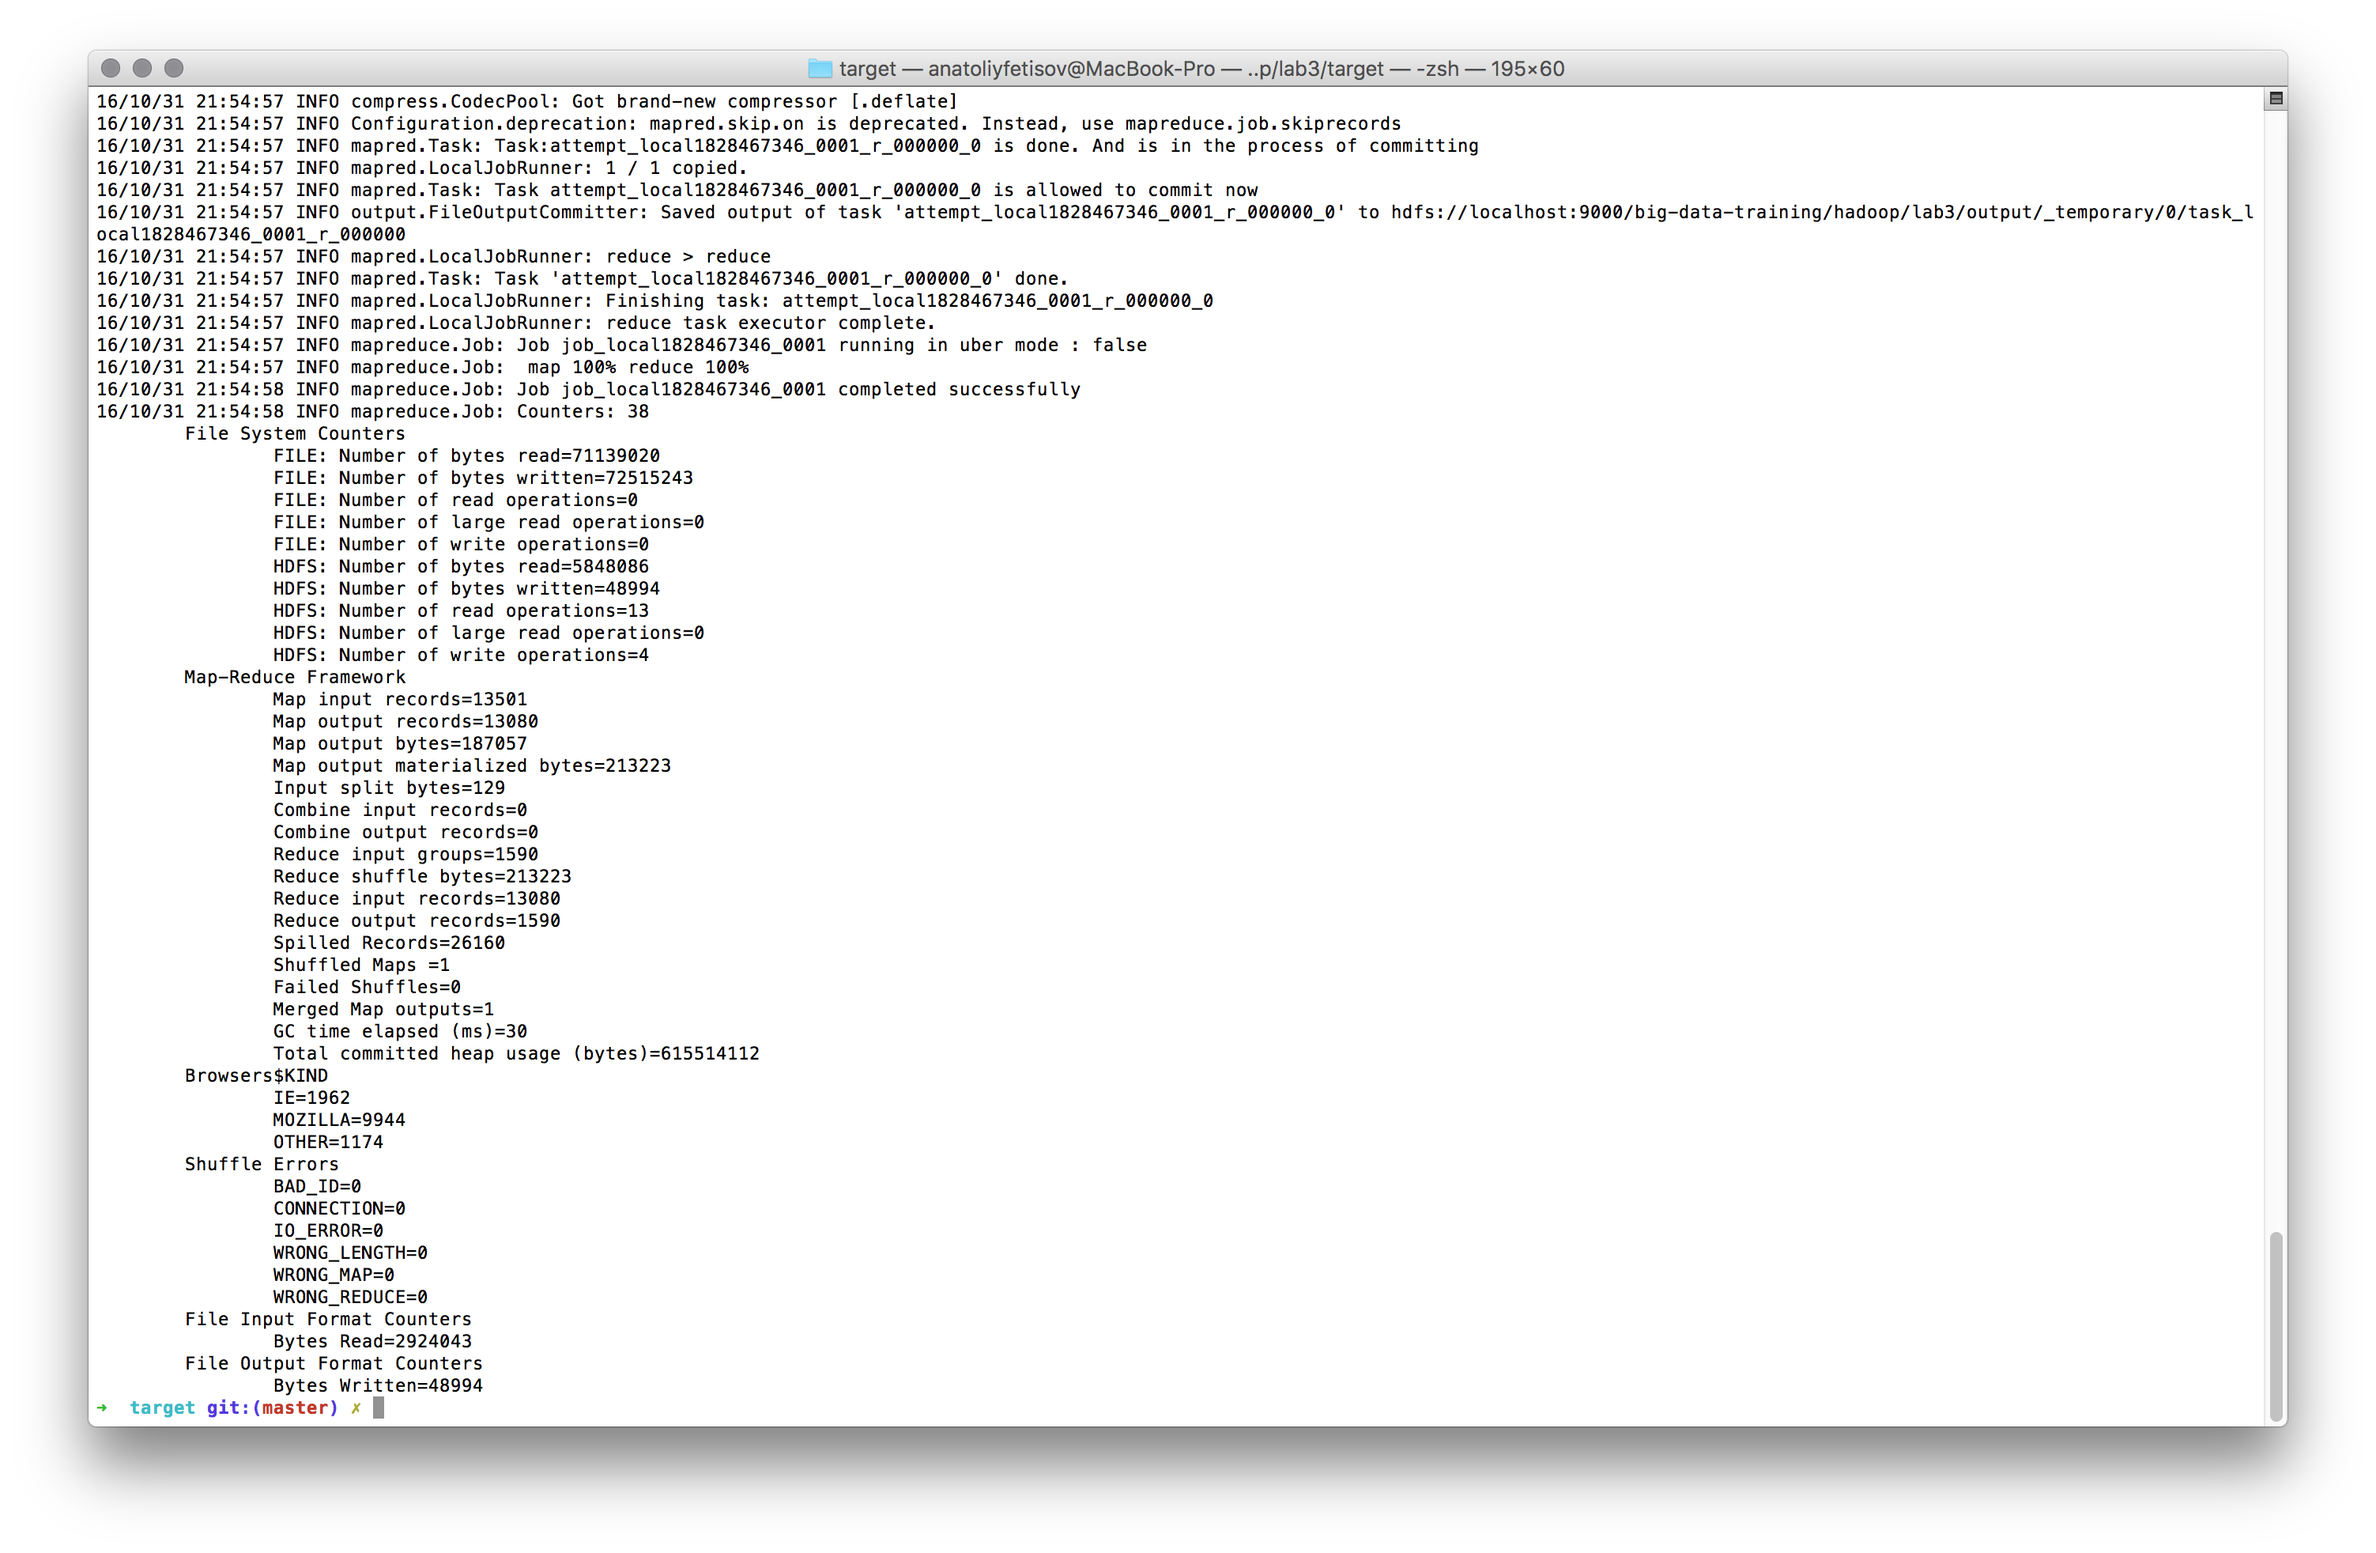
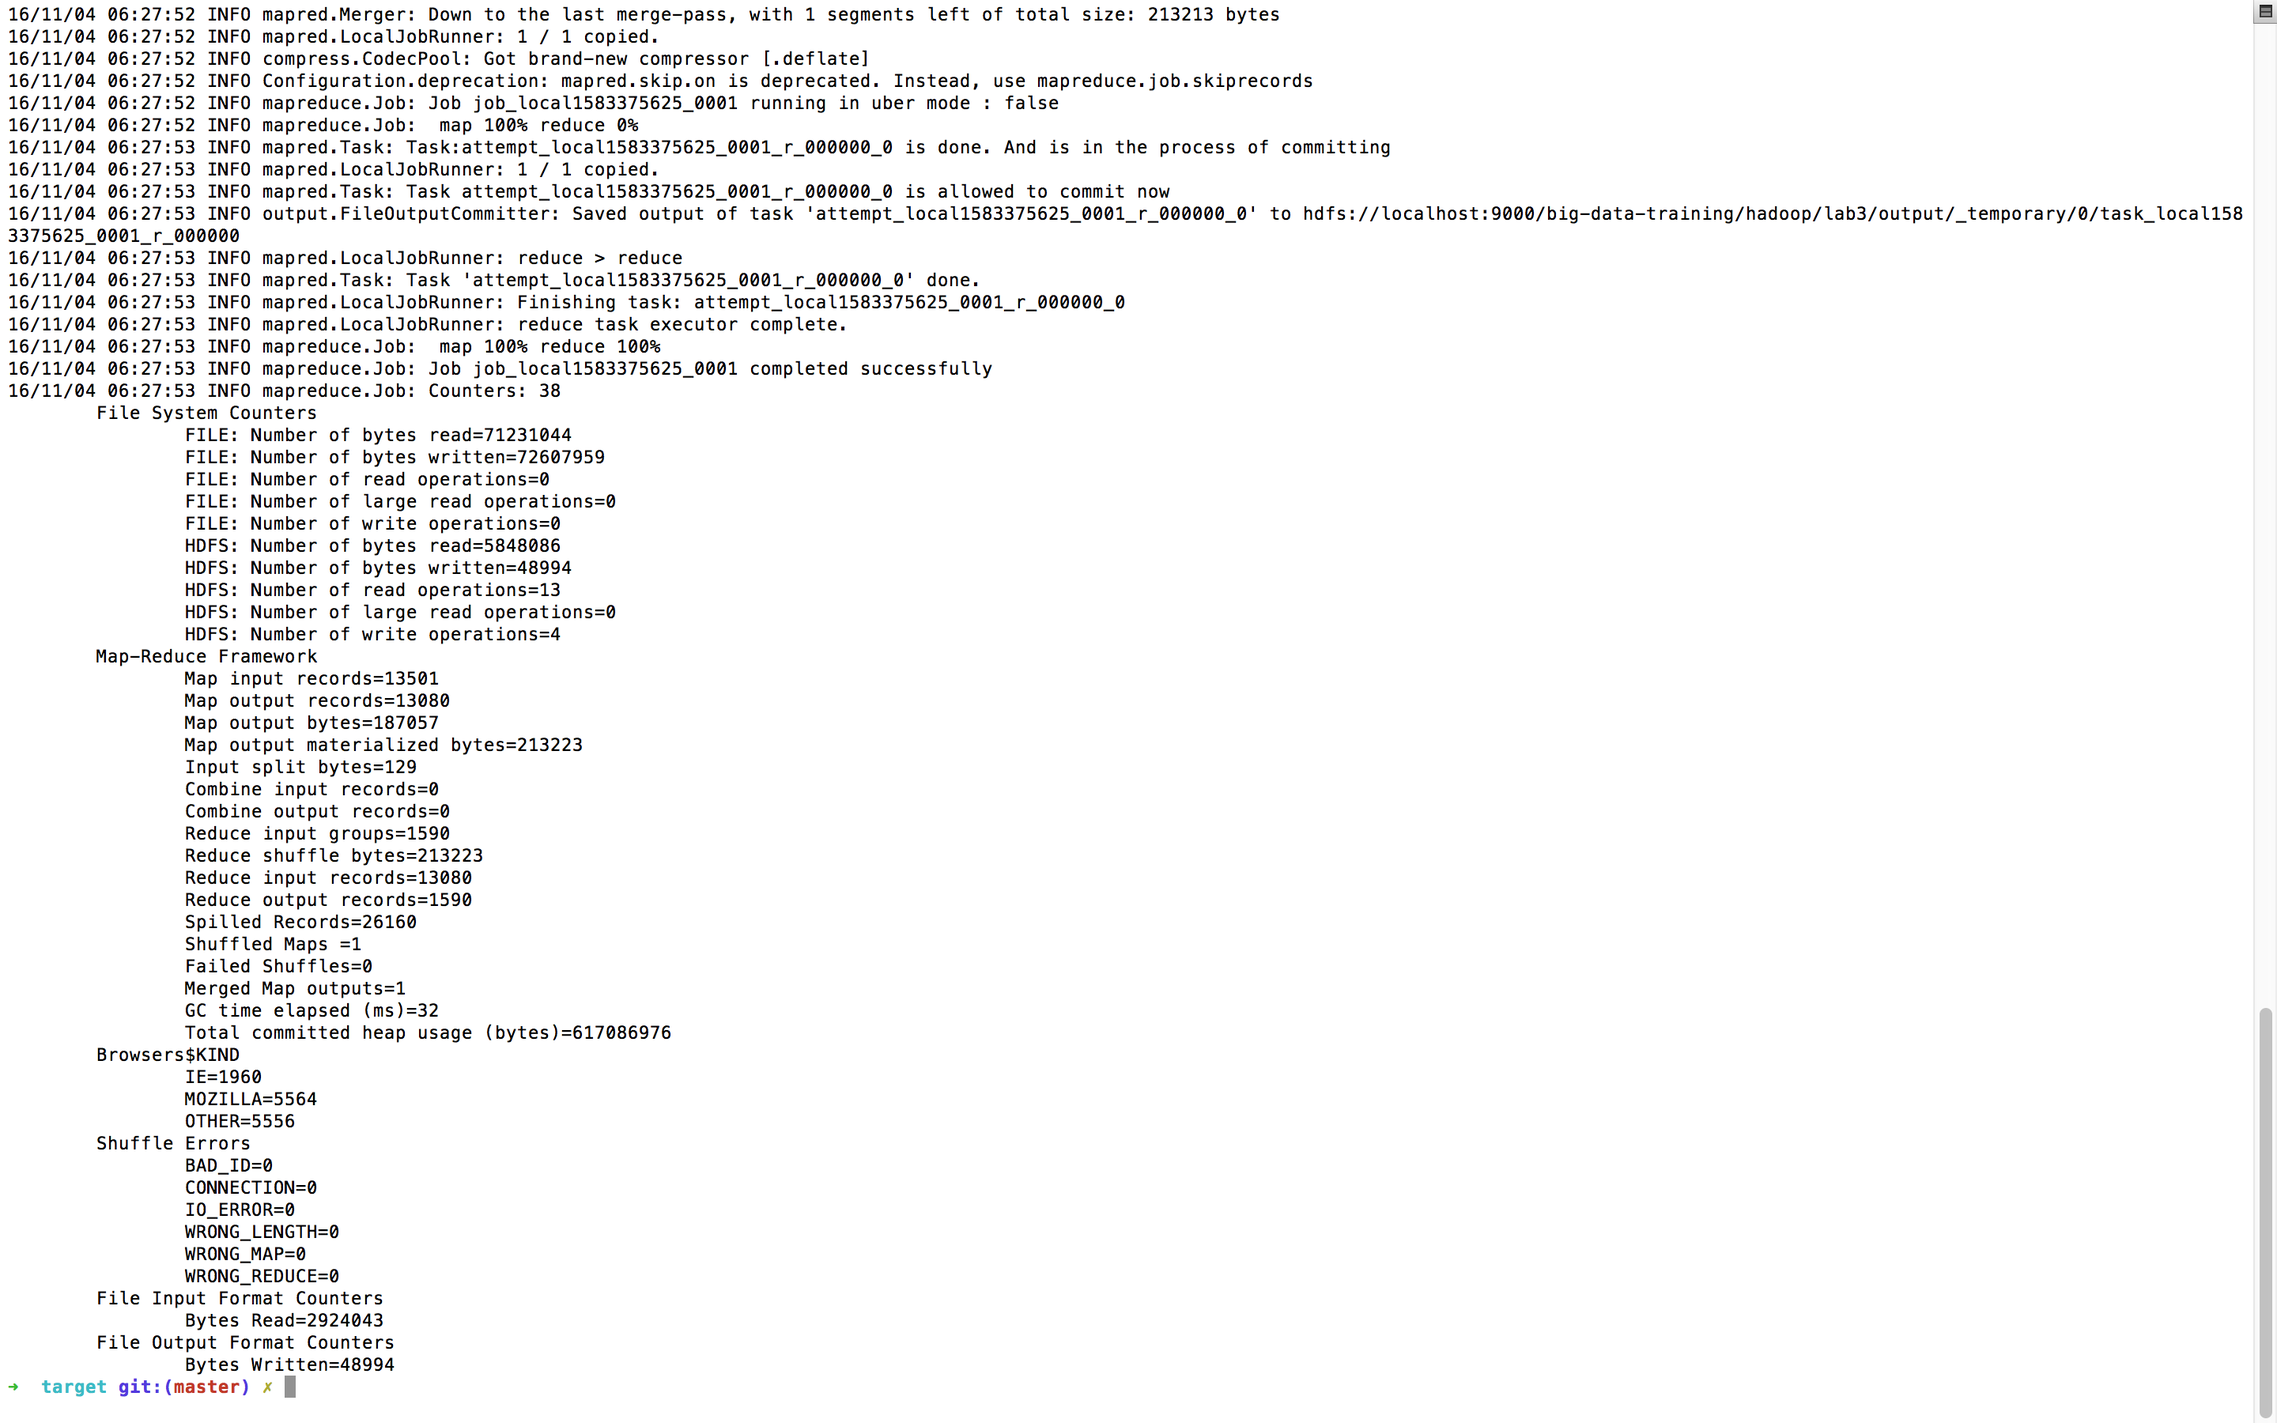
lab3 improvements
retrieving browsers like a decent person

Changed region(s): [[0.0, 0.0, 1.0, 0.9956], [0.9688, 0.0, 1.0, 0.0311]]

diff --git a/hadoop/lab3/src/main/java/IPsAggregationMapper.java b/hadoop/lab3/src/main/java/IPsAggregationMapper.java
@@ -1,22 +1,47 @@
+import eu.bitwalker.useragentutils.Browser;
+import eu.bitwalker.useragentutils.UserAgent;
 import org.apache.hadoop.io.LongWritable;
 import org.apache.hadoop.io.Text;
 import org.apache.hadoop.mapreduce.Mapper;
 
 import java.io.IOException;
+import java.util.Arrays;
+import java.util.HashSet;
 import java.util.regex.Matcher;
 import java.util.regex.Pattern;
 
 
 public class IPsAggregationMapper extends Mapper<Object, Text, Text, LongWritable> {
 
-    private Text ip = new Text();
-    private LongWritable bytes = new LongWritable();
+    private Text outputKey = new Text();
+    private LongWritable outputValue = new LongWritable();
 
     private static final String regex = "^(\\w+)\\s[\\w.-]+\\s[\\w.-]+\\s\\[.*\\]\\s\".*\"\\s\\d{3}\\s(\\d+|-)\\s\".*\"\\s\"(.*)\"$";
     private static final Pattern pattern = Pattern.compile(regex);
 
+    private static final HashSet<Browser> ieKinds = new HashSet<Browser>(Arrays.asList(new Browser[] {
+            Browser.IE, Browser.IE5, Browser.IE5_5, Browser.IE6, Browser.IE7, Browser.IE8, Browser.IE9,
+            Browser.IE10, Browser.IE11, Browser.IE_XBOX, Browser.IEMOBILE6, Browser.IEMOBILE7, Browser.IEMOBILE9,
+            Browser.IEMOBILE10, Browser.IEMOBILE11
+    }));
+
+    private static final HashSet<Browser> mozillaKinds = new HashSet<Browser>(Arrays.asList(new Browser[] {
+            Browser.MOZILLA, Browser.FIREFOX, Browser.FIREFOX1_5, Browser.FIREFOX2, Browser.FIREFOX3,
+            Browser.FIREFOX3MOBILE, Browser.FIREFOX4, Browser.FIREFOX5,Browser.FIREFOX6, Browser.FIREFOX7,
+            Browser.FIREFOX8, Browser.FIREFOX9, Browser.FIREFOX10, Browser.FIREFOX11, Browser.FIREFOX12,
+            Browser.FIREFOX13, Browser.FIREFOX14, Browser.FIREFOX15, Browser.FIREFOX16, Browser.FIREFOX17,
+            Browser.FIREFOX18, Browser.FIREFOX19, Browser.FIREFOX20, Browser.FIREFOX21, Browser.FIREFOX22,
+            Browser.FIREFOX23, Browser.FIREFOX24, Browser.FIREFOX25, Browser.FIREFOX26, Browser.FIREFOX27,
+            Browser.FIREFOX28, Browser.FIREFOX29, Browser.FIREFOX30, Browser.FIREFOX31, Browser.FIREFOX32,
+            Browser.FIREFOX33, Browser.FIREFOX34, Browser.FIREFOX35, Browser.FIREFOX36, Browser.FIREFOX37,
+            Browser.FIREFOX38, Browser.FIREFOX39, Browser.FIREFOX40, Browser.FIREFOX41, Browser.FIREFOX42,
+            Browser.FIREFOX43, Browser.FIREFOX44, Browser.FIREFOX45, Browser.FIREFOX46, Browser.FIREFOX47,
+            Browser.FIREFOX48, Browser.FIREFOX_MOBILE, Browser.FIREFOX_MOBILE23, Browser.FIREFOX_MOBILE_IOS
+    }));
+
     @Override
-    protected void map(Object key, Text value, Context context) throws IOException, InterruptedException {
+    protected void map(Object key, Text value, Context context)
+            throws IOException, InterruptedException {
 
         String ipString;
         Long bytesCount;
@@ -29,18 +54,19 @@ public class IPsAggregationMapper extends Mapper<Object, Text, Text, LongWritabl
                 Browsers.KIND browser = getBrowser(matcher.group(3).toLowerCase());
                 context.getCounter(browser).increment(1);
                 bytesCount = Long.parseLong(bytesString);
-                ip.set(ipString);
-                this.bytes.set(bytesCount);
-                context.write(ip, bytes);
+                outputKey.set(ipString);
+                outputValue.set(bytesCount);
+                context.write(outputKey, outputValue);
             }
         }
     }
 
     private Browsers.KIND getBrowser(String agentInfo) {
-        if (agentInfo.contains("msie")) {
+        UserAgent userAgent = UserAgent.parseUserAgentString(agentInfo);
+        if (ieKinds.contains(userAgent.getBrowser())) {
             return Browsers.KIND.IE;
         }
-        else if (agentInfo.contains("mozilla")){
+        else if (mozillaKinds.contains(userAgent.getBrowser())){
             return Browsers.KIND.MOZILLA;
         }
         else {

diff --git a/hadoop/lab3/src/main/java/IPsAggregationDriver.java b/hadoop/lab3/src/main/java/IPsAggregationDriver.java
@@ -23,7 +23,7 @@ public class IPsAggregationDriver extends Configured implements Tool {
     public int run(String[] args) throws Exception {
 
         Configuration conf = getConf();
-        conf.set("mapred.textoutputformat.separator", ","); // csv of sorts
+        conf.set("mapred.textoutputformat.separator", ","); // csv of sorts (not needed with sequence file, obviously)
         conf.set("mapreduce.output.fileoutputformat.compress", "true");
         conf.set("mapreduce.output.fileoutputformat compress.codec", "org.apache.hadoop.io.compress.SnappyCodec");
 
